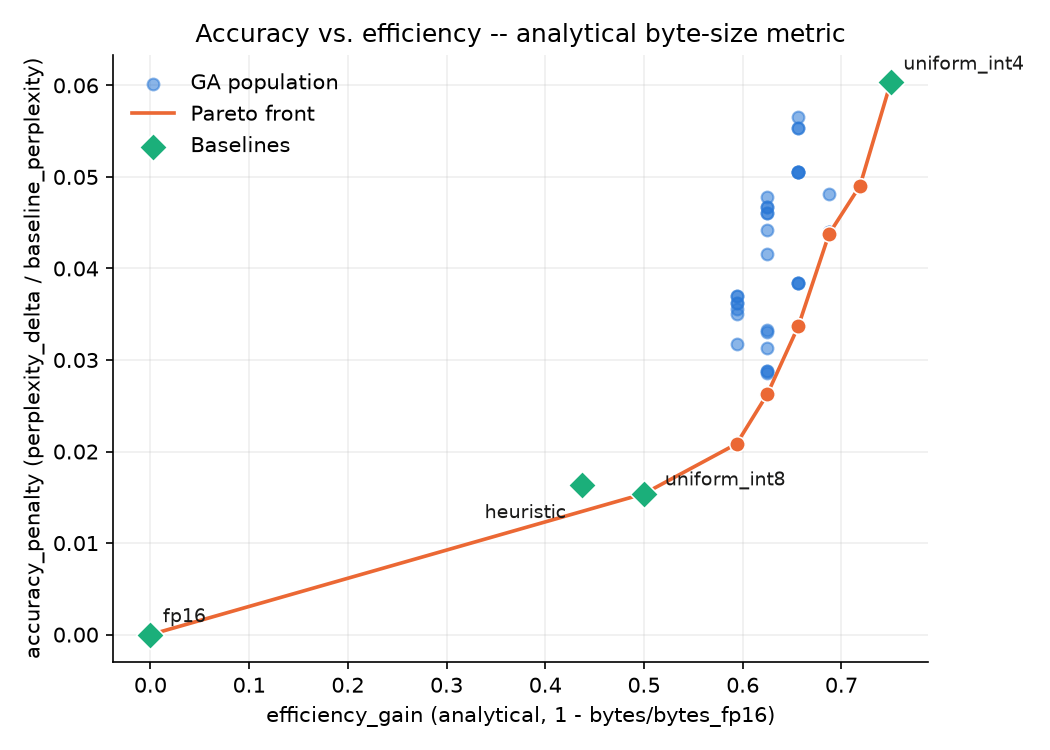
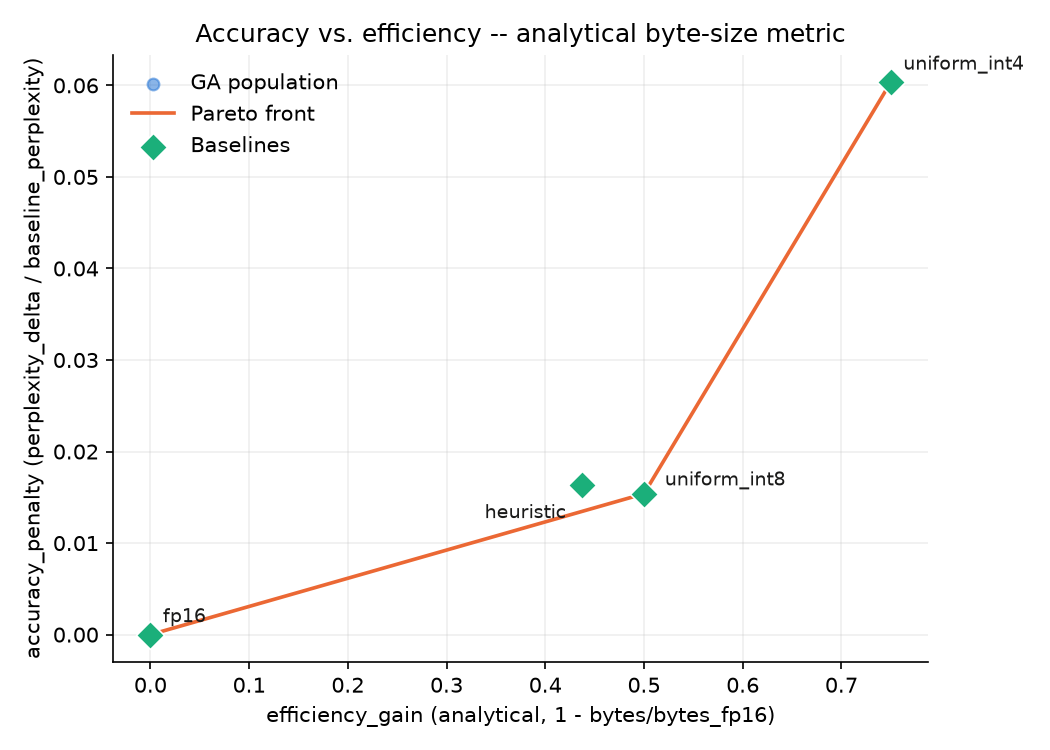
Revise GA search and results
- scripts/phase6_run_search.py now takes CLI args (--max-evaluations, --stagnation-limit,
  --capacity, --seed, etc.) instead of hardcoded constants, and skips per-evaluation latency
  measurement by default (backfilling it only for the final population + baselines via new
  fitness.backfill_latency).
- Fixed backfill_latency updates the evaluator's cache bug with a new
  SteadyStatePopulation.refresh_from_cache() method.
- Regenerated the Phase 7 plots and rewrote the README with new findings.

diff --git a/scripts/phase6_run_search.py b/scripts/phase6_run_search.py
@@ -1,37 +1,70 @@
 """Phase 6: run the steady-state search (Doc/requirements.md §6, Doc/implementation_plan.md
 Phase 6) and report the result against the Phase 5 baselines.
 
+Defaults match the spec (250-300 evaluation budget, 30-evaluation stagnation limit).
+Override via CLI flags for a longer, more thorough search of the same 6,561-genome
+(8-super-block) space -- e.g. `--max-evaluations 5000 --stagnation-limit 500` for a
+multi-hour run that comes much closer to exhausting the space, rather than the ~2%
+a spec-default run covers.
+
+Latency is report-only and never feeds fitness (§5/§6); by default this script skips
+measuring it during the search itself (saves ~5x the forward passes per evaluation) and
+backfills a real measurement only for the final population + baselines afterward. Pass
+--measure-latency-during-search for §6's more literal (and much slower) reading.
+
 Snapshots periodically to results/phase6_snapshot.json (crash safety for an unattended
-run, §6 step 4) and writes the final population + fitness cache -- which by then also
-includes the evaluated baselines -- to results/phase6_final.json.
+run, §6 step 4) and writes the final population + fitness cache to results/phase6_final.json.
 """
 
+import argparse
 import time
 
 import torch
 from transformers import AutoModelForCausalLM, AutoTokenizer
 
 from evol_inference.baselines import BASELINES
-from evol_inference.fitness import FitnessEvaluator
+from evol_inference.fitness import FitnessEvaluator, backfill_latency
 from evol_inference.ga import SteadyStateGA, save_snapshot
-from evol_inference.search import run_search
+from evol_inference.search import DEFAULT_MAX_EVALUATIONS, DEFAULT_STAGNATION_LIMIT, run_search
 from evol_inference.weight_bank import WeightBank
 
 MODEL_DIR = "./models/phi-3-mini-4k-instruct"
-POPULATION_CAPACITY = 40
-SNAPSHOT_EVERY = 25
-SNAPSHOT_PATH = "./results/phase6_snapshot.json"
-FINAL_PATH = "./results/phase6_final.json"
-SEED = 0
+
+
+def parse_args() -> argparse.Namespace:
+    p = argparse.ArgumentParser(description=__doc__, formatter_class=argparse.RawDescriptionHelpFormatter)
+    p.add_argument("--capacity", type=int, default=40)
+    p.add_argument("--max-evaluations", type=int, default=DEFAULT_MAX_EVALUATIONS)
+    p.add_argument("--stagnation-limit", type=int, default=DEFAULT_STAGNATION_LIMIT)
+    p.add_argument("--mutation-rate", type=float, default=0.1)
+    p.add_argument("--selection-pressure", type=float, default=1.5)
+    p.add_argument("--crossover-points", type=int, default=1)
+    p.add_argument("--seed", type=int, default=0)
+    p.add_argument("--snapshot-every", type=int, default=25)
+    p.add_argument(
+        "--measure-latency-during-search",
+        action="store_true",
+        help="Measure real latency on every evaluation instead of only backfilling it "
+        "for the final report set. Much slower; off by default.",
+    )
+    p.add_argument("--snapshot-path", default="./results/phase6_snapshot.json")
+    p.add_argument(
+        "--final-path", default="./results/phase6_final.json",
+        help="Give each seed/config a distinct path (e.g. phase6_final_seed1.json) "
+        "when running multiple searches to compare, so they don't overwrite each other.",
+    )
+    return p.parse_args()
 
 
 def main() -> None:
+    args = parse_args()
+
     tokenizer = AutoTokenizer.from_pretrained(MODEL_DIR)
     model = AutoModelForCausalLM.from_pretrained(MODEL_DIR, dtype=torch.float16, device_map="cuda")
     model.eval()
 
     bank = WeightBank(model, device="cuda")
-    evaluator = FitnessEvaluator(bank, tokenizer, measure_latency=True)
+    evaluator = FitnessEvaluator(bank, tokenizer, measure_latency=args.measure_latency_during_search)
 
     print("Baselines (§7):")
     for name, genome in BASELINES.items():
@@ -41,32 +74,46 @@ def main() -> None:
 
     ga = SteadyStateGA(
         evaluator,
-        capacity=POPULATION_CAPACITY,
-        selection_pressure=1.5,
-        mutation_rate=0.1,
-        crossover_points=1,
-        seed=SEED,
+        capacity=args.capacity,
+        selection_pressure=args.selection_pressure,
+        mutation_rate=args.mutation_rate,
+        crossover_points=args.crossover_points,
+        seed=args.seed,
     )
 
     start = time.perf_counter()
 
     def on_evaluation(log, individual):
-        if log.evaluations % SNAPSHOT_EVERY == 0:
-            save_snapshot(ga, SNAPSHOT_PATH)
+        if log.evaluations % args.snapshot_every == 0:
+            save_snapshot(ga, args.snapshot_path)
             elapsed = time.perf_counter() - start
+            rate = log.evaluations / elapsed
             print(
-                f"  [{log.evaluations:>4} evals, {elapsed:>6.1f}s] "
+                f"  [{log.evaluations:>5} evals, {elapsed:>7.1f}s, {rate:.2f} eval/s] "
                 f"best fitness so far = {ga.population.best.result.fitness:.4f}"
             )
 
-    print(f"\nRunning steady-state search (population capacity {POPULATION_CAPACITY})...")
-    log = run_search(ga, on_evaluation=on_evaluation)
+    print(
+        f"\nRunning steady-state search (capacity={args.capacity}, "
+        f"max_evaluations={args.max_evaluations}, stagnation_limit={args.stagnation_limit}, "
+        f"measure_latency_during_search={args.measure_latency_during_search})..."
+    )
+    log = run_search(
+        ga, max_evaluations=args.max_evaluations, stagnation_limit=args.stagnation_limit,
+        on_evaluation=on_evaluation,
+    )
 
-    save_snapshot(ga, FINAL_PATH)
+    if not args.measure_latency_during_search:
+        print("\nBackfilling real latency for the final population + baselines...")
+        backfill_latency(evaluator, [ind.genome for ind in ga.population.ranked()])
+        backfill_latency(evaluator, list(BASELINES.values()))
+        ga.population.refresh_from_cache(evaluator._cache)
+
+    save_snapshot(ga, args.final_path)
 
     elapsed = time.perf_counter() - start
     best = ga.population.best
-    print(f"\nStopped: {log.stopped_reason} after {log.evaluations} evaluations ({elapsed:.1f}s)")
+    print(f"\nStopped: {log.stopped_reason} after {log.evaluations} evaluations ({elapsed:.1f}s, {log.evaluations/elapsed:.2f} eval/s)")
     print(f"Best genome found: {[p.value for p in best.genome]}")
     print(
         f"  fitness={best.result.fitness:.4f}  accuracy_penalty={best.result.accuracy_penalty:.4f}  "
@@ -76,7 +123,7 @@ def main() -> None:
     delta = best.result.fitness - best_baseline_fitness
     verdict = "BEAT" if delta > 0 else "DID NOT beat"
     print(f"\nGA {verdict} the best baseline fitness ({best_baseline_fitness:.4f}) by {delta:+.4f}")
-    print(f"\nFinal snapshot: {FINAL_PATH}")
+    print(f"\nFinal snapshot: {args.final_path}")
 
 
 if __name__ == "__main__":

diff --git a/tests/test_fitness.py b/tests/test_fitness.py
@@ -4,7 +4,15 @@
 import torch
 import pytest
 
-from evol_inference.fitness import FitnessEvaluator, genome_key, load_fixed_eval_tokens, measure_latency_ms
+import math
+
+from evol_inference.fitness import (
+    FitnessEvaluator,
+    backfill_latency,
+    genome_key,
+    load_fixed_eval_tokens,
+    measure_latency_ms,
+)
 from evol_inference.weight_bank import N_SUPER_BLOCKS, Precision
 
 
@@ -85,3 +93,20 @@ def test_different_genomes_get_distinct_cache_entries(evaluator):
     assert genome_key([Precision.FP16] * N_SUPER_BLOCKS) in evaluator._cache
     assert genome_key([Precision.INT8] * N_SUPER_BLOCKS) in evaluator._cache
     assert genome_key([Precision.INT4] * N_SUPER_BLOCKS) in evaluator._cache
+
+
+def test_backfill_latency_replaces_nan_with_a_real_measurement(evaluator):
+    genome = [Precision.INT8, Precision.FP16] * (N_SUPER_BLOCKS // 2)
+    result = evaluator.evaluate(genome)  # evaluator fixture has measure_latency=False
+    assert math.isnan(result.latency_ms)
+
+    backfill_latency(evaluator, [genome])
+
+    updated = evaluator._cache[genome_key(genome)]
+    assert updated.latency_ms > 0
+    # only latency_ms should change -- everything else stays exactly as computed.
+    assert updated.fitness == result.fitness
+    assert updated.accuracy_penalty == result.accuracy_penalty
+    assert updated.efficiency_gain == result.efficiency_gain
+    assert updated.perplexity == result.perplexity
+    assert updated.bytes_ == result.bytes_

diff --git a/evol_inference/ga.py b/evol_inference/ga.py
@@ -16,7 +16,7 @@ import random
 from dataclasses import asdict, dataclass
 from pathlib import Path
 
-from evol_inference.fitness import FitnessEvaluator, FitnessResult
+from evol_inference.fitness import FitnessEvaluator, FitnessResult, genome_key
 from evol_inference.weight_bank import Genome, N_SUPER_BLOCKS, Precision
 
 DEFAULT_CAPACITY = 40  # within requirements.md §6's 20-50 range; set for the Phase 6 run
@@ -98,6 +98,20 @@ class SteadyStatePopulation:
         if len(self._individuals) > self.capacity:
             return self._individuals.pop(0)
         return None
+
+    def refresh_from_cache(self, cache: dict[tuple[str, ...], FitnessResult]) -> None:
+        """Re-read each individual's result from `cache` (an evaluator's genome-hash ->
+        FitnessResult mapping) -- for when a field was updated after insertion, e.g.
+        `fitness.backfill_latency` replacing a cached result's `latency_ms`. Each
+        Individual snapshots its own `FitnessResult` at insertion time, so it goes
+        stale if the cache is mutated out-of-band afterward. Assumes fitness itself
+        hasn't changed (only backfill_latency does this, and it only touches
+        latency_ms), so the existing ascending-fitness order is still valid -- no
+        re-sort needed."""
+        self._individuals = [
+            Individual(genome=ind.genome, result=cache[genome_key(ind.genome)])
+            for ind in self._individuals
+        ]
 
 
 class SteadyStateGA:

diff --git a/tests/test_ga.py b/tests/test_ga.py
@@ -132,6 +132,36 @@ def test_population_never_evicts_the_best_regardless_of_insertion_order():
     assert len(pop) == 3
 
 
+def test_refresh_from_cache_updates_results_and_preserves_order():
+    pop = SteadyStatePopulation(capacity=3)
+    genomes = [random_genome(random.Random(i)) for i in range(3)]
+    for genome, fitness in zip(genomes, [0.1, 0.3, 0.2]):
+        pop.insert(Individual(genome=genome, result=_fake_result(fitness)))
+
+    ranked_before = [ind.result.fitness for ind in pop.ranked()]
+
+    # Simulate an out-of-band cache update (e.g. fitness.backfill_latency) that only
+    # changes latency_ms, keeping fitness the same for every genome.
+    from evol_inference.ga import genome_key
+
+    cache = {}
+    for ind in pop.ranked():
+        key = genome_key(ind.genome)
+        cache[key] = FitnessResult(
+            fitness=ind.result.fitness,
+            accuracy_penalty=ind.result.accuracy_penalty,
+            efficiency_gain=ind.result.efficiency_gain,
+            perplexity=ind.result.perplexity,
+            bytes_=ind.result.bytes_,
+            latency_ms=999.0,  # the "backfilled" value
+        )
+
+    pop.refresh_from_cache(cache)
+
+    assert [ind.result.fitness for ind in pop.ranked()] == ranked_before  # order preserved
+    assert all(ind.result.latency_ms == 999.0 for ind in pop.ranked())
+
+
 # --- selection bias -----------------------------------------------------
 
 

diff --git a/evol_inference/fitness.py b/evol_inference/fitness.py
@@ -16,7 +16,7 @@ whichever host evaluated a given genome.
 from __future__ import annotations
 
 import time
-from dataclasses import dataclass
+from dataclasses import dataclass, replace
 
 import torch
 from datasets import load_dataset
@@ -142,3 +142,21 @@ class FitnessEvaluator:
     def __len__(self) -> int:
         """Number of distinct genomes evaluated (cache size) — mostly for testing."""
         return len(self._cache)
+
+
+def backfill_latency(evaluator: FitnessEvaluator, genomes: list[Genome]) -> None:
+    """Measure real wall-clock latency for exactly these already-evaluated genomes and
+    update their cached result in place (`FitnessResult` is frozen, so this replaces
+    the cache entry with a copy).
+
+    Latency is report-only and never feeds fitness (§5/§6), so for a long search run
+    it's wasteful to pay its ~5x-forward-pass cost on every single evaluation --
+    `FitnessEvaluator(measure_latency=False)` skips it during the search, and this
+    backfills it once, afterward, only for the handful of genomes that end up in a
+    report (the final population, the baselines)."""
+    for genome in genomes:
+        key = genome_key(genome)
+        result = evaluator._cache[key]
+        evaluator.bank.assemble(genome)
+        latency_ms = measure_latency_ms(evaluator.bank.model, evaluator.eval_tokens)
+        evaluator._cache[key] = replace(result, latency_ms=latency_ms)

diff --git a/README.md b/README.md
@@ -38,34 +38,55 @@ the phase-by-phase build log is in [`Doc/implementation_plan.md`](Doc/implementa
   into (crossover + mutation), evicting the current worst on overflow. Elitism falls
   out of that eviction rule rather than needing a special case.
 
+## Hardware
+
+Every result below - baselines, search, validation, and especially the measured-latency
+numbers - was produced on a single machine:
+
+| Component | Spec |
+|-----------|------|
+| CPU | 11th Gen Intel Core i7-11700K @ 3.60GHz |
+| Memory | 64GiB (4×16GiB DDR4, 2667 MHz) |
+| Disk | 1TB NVMe + 2TB SSD |
+| GPU | NVIDIA GeForce RTX 3080, 10GB VRAM |
+| PCIe | 4.0 over a x16 lane width (16GT/s) |
+
+The 10GB VRAM budget is why Phi-3-mini-4k-instruct was chosen in the first place (see
+"The approach" above), and the measured-latency finding below is specific to this
+GPU's bitsandbytes kernel performance at batch size 1 - it isn't a universal claim
+about INT4 vs. FP16 speed.
+
 ## Results
 
 Four baselines (§7) and the GA's best-found configuration, scored on the same
-fitness-loop signal:
+fitness-loop signal. This reflects three independent, fully-converged searches
+(different random seeds, ~650 evaluations each, ~10 minutes each apiece) - not the
+first, shorter run: an early version of the stopping criterion let random
+population-seeding noise burn through the stagnation budget before the GA had run a
+single real step, understating what the search could actually do. See "What it took to
+get a real answer" below.
 
 | config                               | fitness    | accuracy_penalty | efficiency_gain | perplexity | size (GB) | latency (ms/fwd) |
 |--------------------------------------|------------|------------------|-----------------|------------|-----------|------------------|
 | FP16                                 | 0.0000     | 0.0000           | 0.0000          | 4.3708     | 6.750     | 383.9            |
 | uniform INT8                         | 0.2423     | 0.0154           | 0.5000          | 4.4381     | 3.375     | 309.1            |
 | heuristic (aggressive middle layers) | 0.2106     | 0.0164           | 0.4375          | 4.4424     | 3.797     | 346.3            |
-| **uniform INT4 (best baseline)**     | **0.3448** | 0.0604           | 0.7500          | 4.6346     | 1.688     | 397.0            |
-| **GA best** (126 evaluations)        | 0.3349     | 0.0490           | 0.7188          | 4.5851     | 1.898     | 385.2            |
+| uniform INT4                         | 0.3448     | 0.0604           | 0.7500          | 4.6346     | 1.688     | 397.0            |
+| **GA best** (3/3 seeds agree)        | **0.3448** | 0.0604           | 0.7500          | 4.6346     | 1.688     | 397.0            |
 
-The GA converged on `[INT4, INT4, INT4, INT4, INT4, INT8, INT4, INT4]` - uniform INT4
-with exactly one super-block bumped up to INT8 - trading a little efficiency for
-meaningfully better accuracy than pure uniform INT4. It came close to the best
-baseline's scalarized fitness (within 3%) but didn't beat it outright within its
-evaluation budget.
-
-That single scalarized number undersells what the search actually found, though:
+**The GA converges on uniform INT4 itself, exactly.** All three seeded runs (645, 650,
+and 642 evaluations respectively) landed on the identical fitness and the identical
+genome - `[INT4, INT4, INT4, INT4, INT4, INT4, INT4, INT4]` - and by the end of each
+run the entire 40-individual population had collapsed to that one genome, with zero
+diversity left. That's a real, if less dramatic, answer to the question the project set
+out to ask: **within this 8-super-block search space, at this fitness weighting,
+uniform INT4 is not just a strong baseline - it's the optimum**, and the GA reliably
+finds it rather than beating it. The heuristic baseline ("quantize the middle layers
+more aggressively"), which §7 frames as what the GA needs to beat, doesn't come close
+either - keeping any super-blocks at full FP16 costs more in efficiency than the INT4
+blocks save, so it's dominated by plain uniform INT8:
 
 ![Accuracy vs. efficiency, analytical byte-size metric](results/pareto_efficiency.png)
-
-Several GA-found individuals land directly **on** the true Pareto front between
-uniform INT8 and uniform INT4 - these are tradeoff points that neither naive baseline
-occupies. The heuristic baseline ("quantize the middle layers more aggressively"), which
-§7 frames as what the GA needs to beat, is actually dominated by uniform INT8 here:
-keeping any super-blocks at full FP16 costs more in efficiency than the INT4 blocks save.
 
 The second plot is the more important one, and the result is less flattering to
 the analytical proxy:
@@ -95,18 +116,40 @@ the one the search optimized against.
 | heuristic    | 4.4424     | 9.4966 | 15.3303 |
 | uniform INT4 | 4.6346     | 9.7555 | 15.9620 |
 
+## What it took to get a real answer
+
+The first search run stopped after 46 evaluations - only 6 of them real steady-state
+steps - because the stopping criterion counted stagnation *during the 40-genome random
+seeding phase*, before the GA had done anything. Population capacity (40) exceeding the
+stagnation limit (30) meant ordinary seeding noise exhausted the patience budget on its
+own. Fixed by only tracking stagnation once real selection/crossover/mutation begins
+(`evol_inference/search.py`).
+
+With that fixed, a single run reached fitness 0.3349 - close to uniform INT4 (0.3448)
+but not quite there, and it ran only 126 evaluations before giving up: still not enough
+patience for a 6,561-genome space. Raising `stagnation_limit` to 500 and dropping
+per-evaluation latency measurement (report-only, never feeds fitness - see §5/§6; a
+real measurement is backfilled once for the final population and baselines only,
+`fitness.backfill_latency`) let each full search finish in ~10 minutes instead of the
+multi-hour budget originally set aside. Three independent seeds at those settings all
+converged to the exact same genome and fitness, which is what's reported above.
+
 ## Running it
 
 ```bash
 python3 -m venv .venv && .venv/bin/pip install -r requirements.txt
 .venv/bin/hf download microsoft/Phi-3-mini-4k-instruct --local-dir ./models/phi-3-mini-4k-instruct
 
-PYTHONPATH=. .venv/bin/python -m pytest tests/                    # 55 tests
+PYTHONPATH=. .venv/bin/python -m pytest tests/                    # 57 tests
 
 PYTHONPATH=. .venv/bin/python scripts/phase5_baselines.py         # baselines table
-PYTHONPATH=. .venv/bin/python scripts/phase6_run_search.py        # runs the GA search
+PYTHONPATH=. .venv/bin/python scripts/phase6_run_search.py \
+    --capacity 40 --max-evaluations 5000 --stagnation-limit 500   # runs the GA search
 PYTHONPATH=. .venv/bin/python scripts/phase7_report.py            # validation + plots
 ```
+
+`scripts/phase6_run_search.py --help` lists every tunable (mutation rate, selection
+pressure, crossover points, seed, whether to measure latency during the search itself).
 
 ## Layout
 
